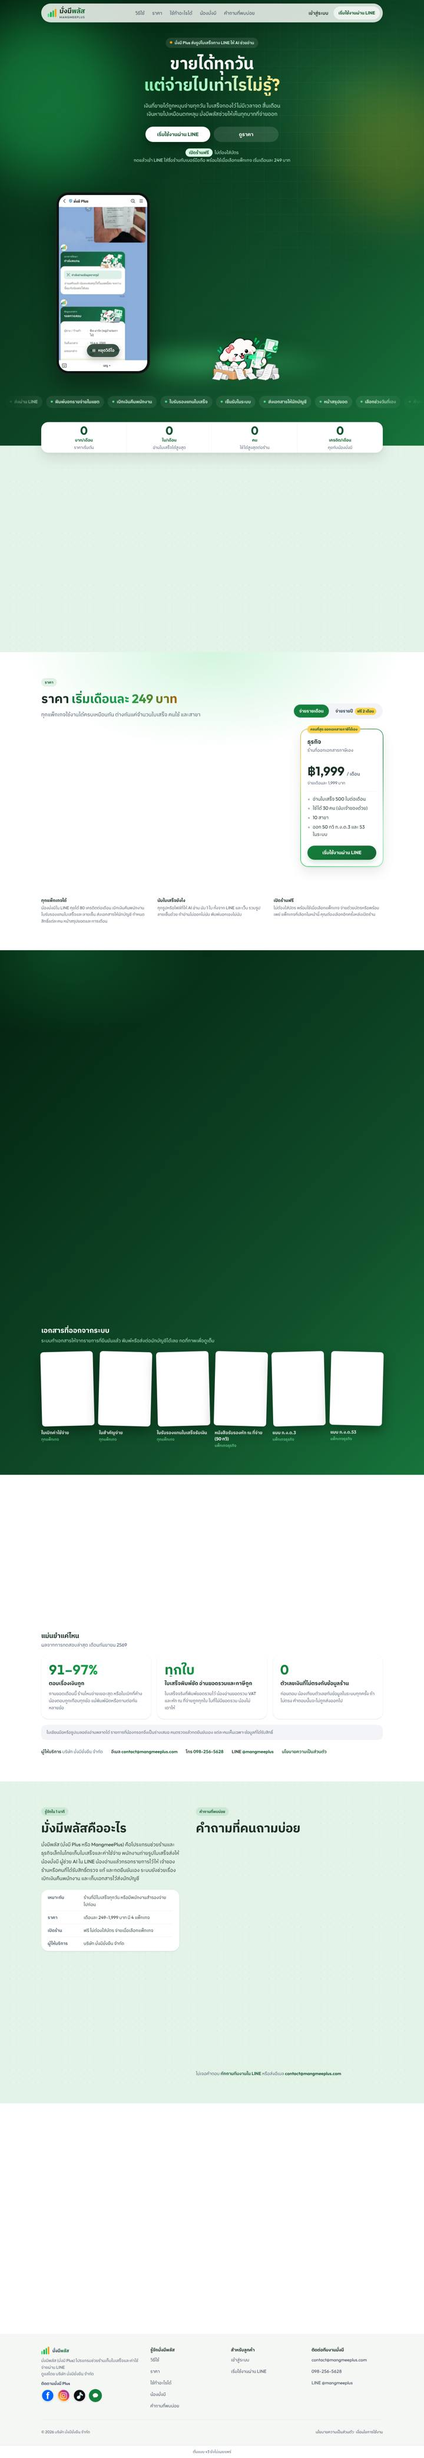
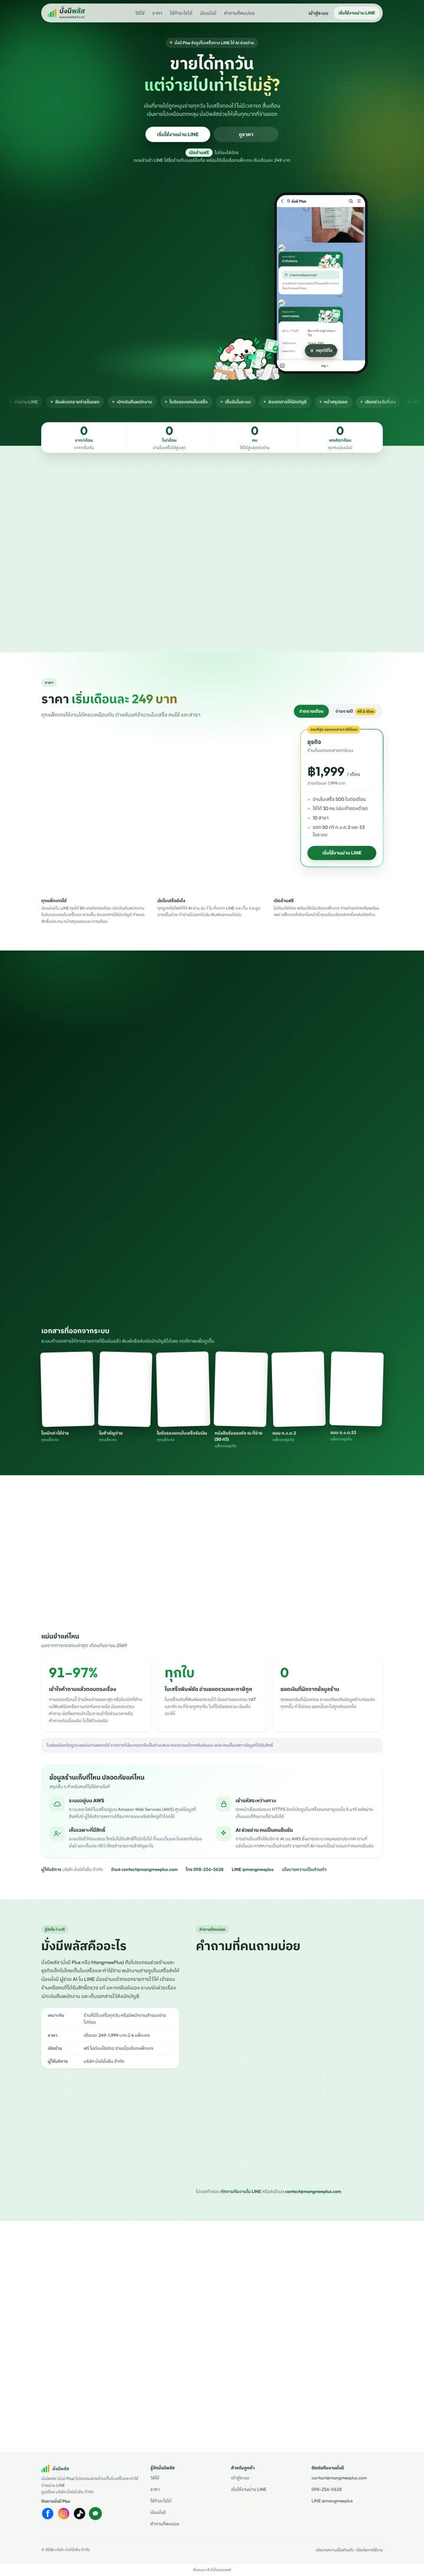
docs: v3 accuracy cards no longer contradict, and a plain-Thai note on where data lives and how it is protected
Card one now measures understanding the question and card three money
figures checked against shop data. The note states only verified facts
(AWS Singapore, HTTPS, five-minute file links, hashed passwords,
deny-by-default access, AI may process abroad per the privacy notice)
and records what is deliberately not claimed. Also records the live
/privacy and /terms CSP hang, queued as a separate fix.

Claude-Session: https://claude.ai/code/session_01J7ScAcuHmAWY52w61WzGcF

diff --git a/docs/agent-memory/mangmee-main-website-prototype-2026-10-20.md b/docs/agent-memory/mangmee-main-website-prototype-2026-10-20.md
@@ -373,3 +373,14 @@ Verification: Chromium click tests — pause holds the strip (-274 → -274 over
 ## Revision 3s — hero phone back on the right, signup video pausable
 
 Owner screenshot showed the LINE phone on the left over the dashboard: round 16 added a generic `.reel{position:relative}` after `.stage-phone{position:absolute}`, which overrode it (the local renderer showed the same; the stage crop had not been re-checked after round 16). Scoped it to `.close-phone .reel`. The signup video got the same checkbox/label pause (`#su-pause`). Moved the image labels off `figure.stage` / `figure.close-phone` (role="img" would hide the pause controls) onto the dashboard and each phone screen. Checked: hero phone at x 930 (right), signup pause holds -253 → -253 and resumes; home 1440/390 no overflow; canvas version 31.
+
+## Revision 3t — non-contradictory accuracy, data/security note, live /privacy hang reported
+
+Status: Complete — prototype only.
+Trigger: Owner: "91–97% ตอบเรื่องเงินถูก" vs "0 ตัวเลขเงินที่ไม่ตรง" read as contradictory; ุ of "ทุกใบ" clipped; add short AWS / data storage / security note for non-technical readers. Mid-turn: live mangmeeplus.com/privacy and /terms hang on "กำลังเปิดหน้า..." with CSP errors.
+Decisions:
+- Card 1 reworded to understanding the question (A2/A3/A6 misses), card 3 to money figures checked against shop data (A1 = 0). `.tnum` line-height 1.4.
+- Security note facts (read-only audit after reading docs/runbooks/cloud-environment-operations.md): AWS ap-southeast-1 only (runbook:9; last full scan 2026-08-15); Kamal on EC2 behind Cloudflare, origin HTTPS (runbook:23, 495); signed file links ≤ 300 s (packages/config/src/index.ts:206); scrypt password hashes (password-credential.logic.ts:1-8); deny-by-default guard (deny-by-default.guard.ts:44,63); audit module; Bedrock `global.` profile may process outside the region (packages/config/src/index.ts:168-174), disclosed in privacy v3 (apps/web/public/legal/releases/v3/privacy-th.html:1505).
+- Deliberately NOT claimed: data stays in Singapore; Bedrock retention/training (U-08 open); RDS/S3 encryption or backup cadence after the 2026-10-09 rebuild (U-02, M-17, L-15 open); "passed security review" (15 High / 50 open items from 2026-07-17); PDPA/ISO/SOC 2 (G-04); 2FA (none found); live AI permission proof (H-15 deploy evidence pending). DPO sign-off for the global Bedrock profile (M-05) is open — owner should know before publishing.
+- Live bug (outside this task's allowed scope, apps/ not editable here): apps/web/proxy.ts sets a per-request nonce CSP with 'strict-dynamic' (security-headers.logic.ts:63-64) but /privacy and /terms are statically prerendered (no dynamic API; root layout does not read headers()), so their inline scripts carry no nonce and are blocked; hydration never finishes. Queued a separate fix task (force-dynamic or nonce-reading layout, plus a guard test).
+Verification: Chromium 1440/390 no overflow (home 8743 / 15186); scroll test 0 transparent sections; canvas version 32.

diff --git a/docs/prototypes/mangmee-main-website/v3/README.md b/docs/prototypes/mangmee-main-website/v3/README.md
@@ -180,6 +180,14 @@
 - ส่วนผลทดสอบเหลือแค่ความแม่นยำ: ตอบเรื่องเงินถูก 91–97%, ใบเสร็จพิมพ์ชัดอ่านยอดรวมและภาษีถูกทุกใบ, ตัวเลขเงินที่ไม่ตรงข้อมูลร้าน 0 ไม่มีจำนวนครั้งที่ทดสอบหรือคำเรื่องโค้ด
 - “ตัวอย่างจากคำถามที่ใช้คุยกับน้องมั่งมี”
 
+### รอบ 17: ความแม่นยำที่ไม่ขัดกัน และเรื่องเก็บข้อมูล
+
+- “91–97% เข้าใจคำถามแล้วตอบตรงเรื่อง” คู่กับ “0 ยอดเงินที่ผิดจากข้อมูลร้าน” อธิบายว่าข้อที่พลาดไม่ใช่ตัวเลขผิด
+- “ทุกใบ” สระอุไม่ถูกตัดแล้ว
+- เพิ่มกล่องสั้น ๆ ว่าข้อมูลเก็บที่ไหน ปลอดภัยแค่ไหน: AWS สิงคโปร์, เข้ารหัสระหว่างทาง, เห็นเฉพาะที่มีสิทธิ์, AI ช่วยอ่านแต่คนยืนยัน
+- ที่ไม่ได้เขียนเพราะยังไม่มีหลักฐานล่าสุด: การเข้ารหัสไฟล์และฐานข้อมูลหลังสร้างระบบใหม่, รอบการสำรองข้อมูล, การผ่านตรวจความปลอดภัย, PDPA
+- พบว่าหน้า mangmeeplus.com/privacy และ /terms บนเว็บจริงค้างที่ “กำลังเปิดหน้า...” เพราะ CSP บล็อกสคริปต์ของหน้าที่สร้างไว้ล่วงหน้า ส่งเป็นงานแก้แยกให้แล้ว (ยังไม่ได้แก้ในงานนี้ เพราะงานนี้ห้ามแตะโค้ดระบบ)
+
 ## เรื่องที่รอคุณตัดสินใจ
 
 1. ~~ลิงก์เข้าสู่ระบบ~~ ตัดสินแล้ว: ใช้ `mangmeeplus.com/login`
